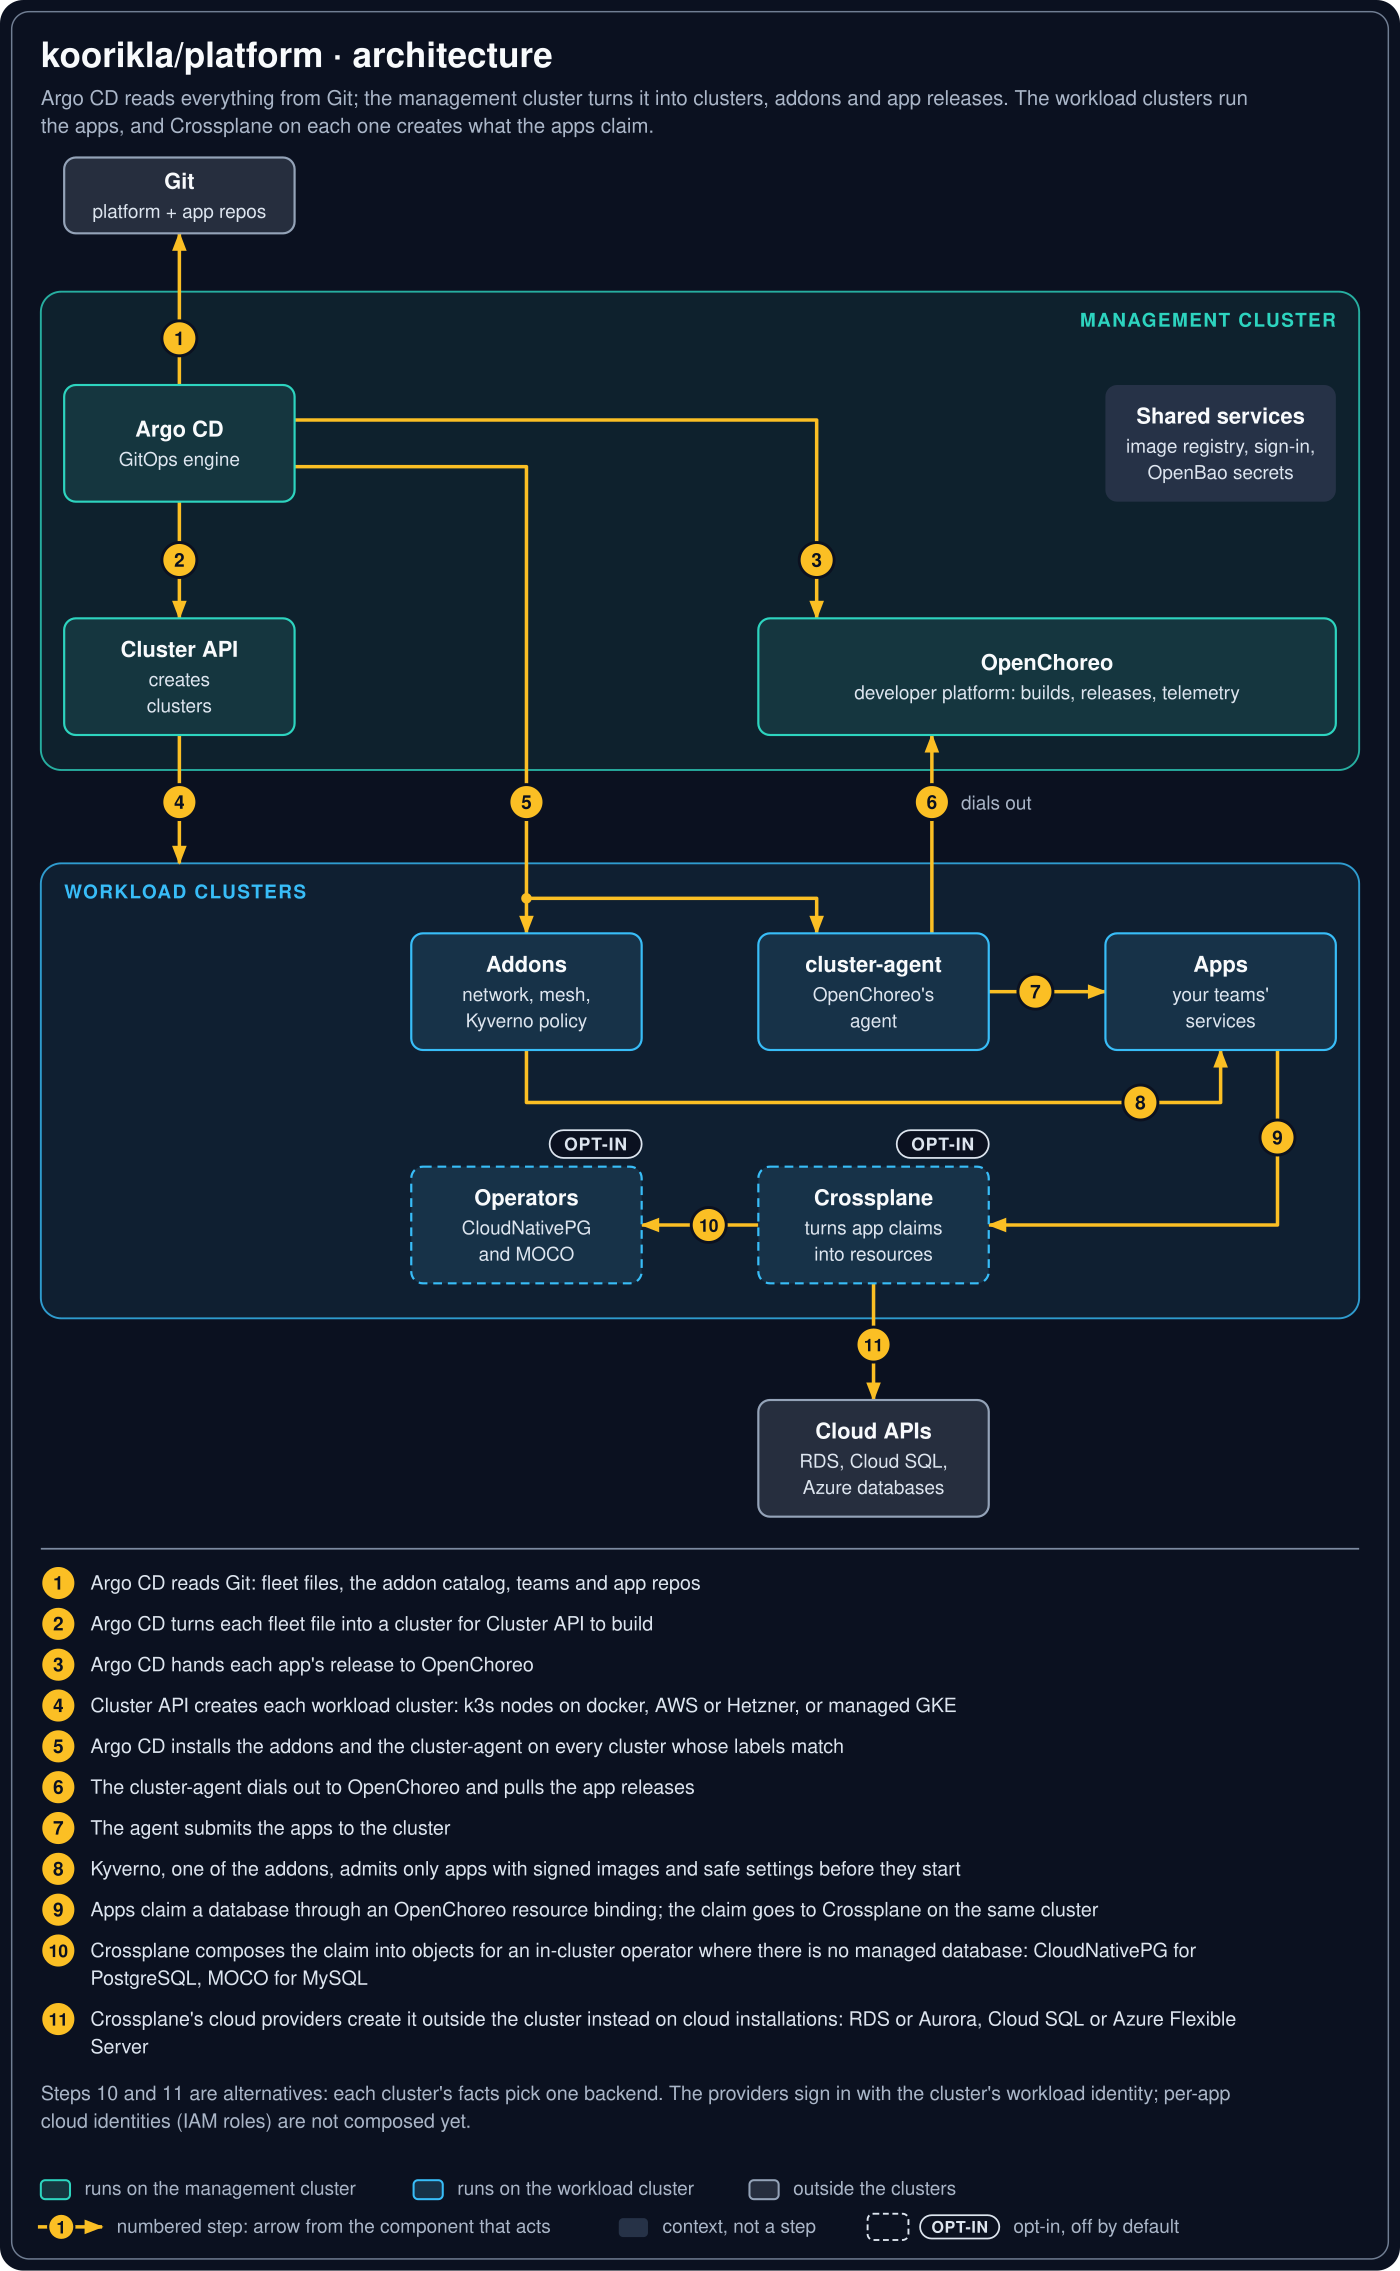
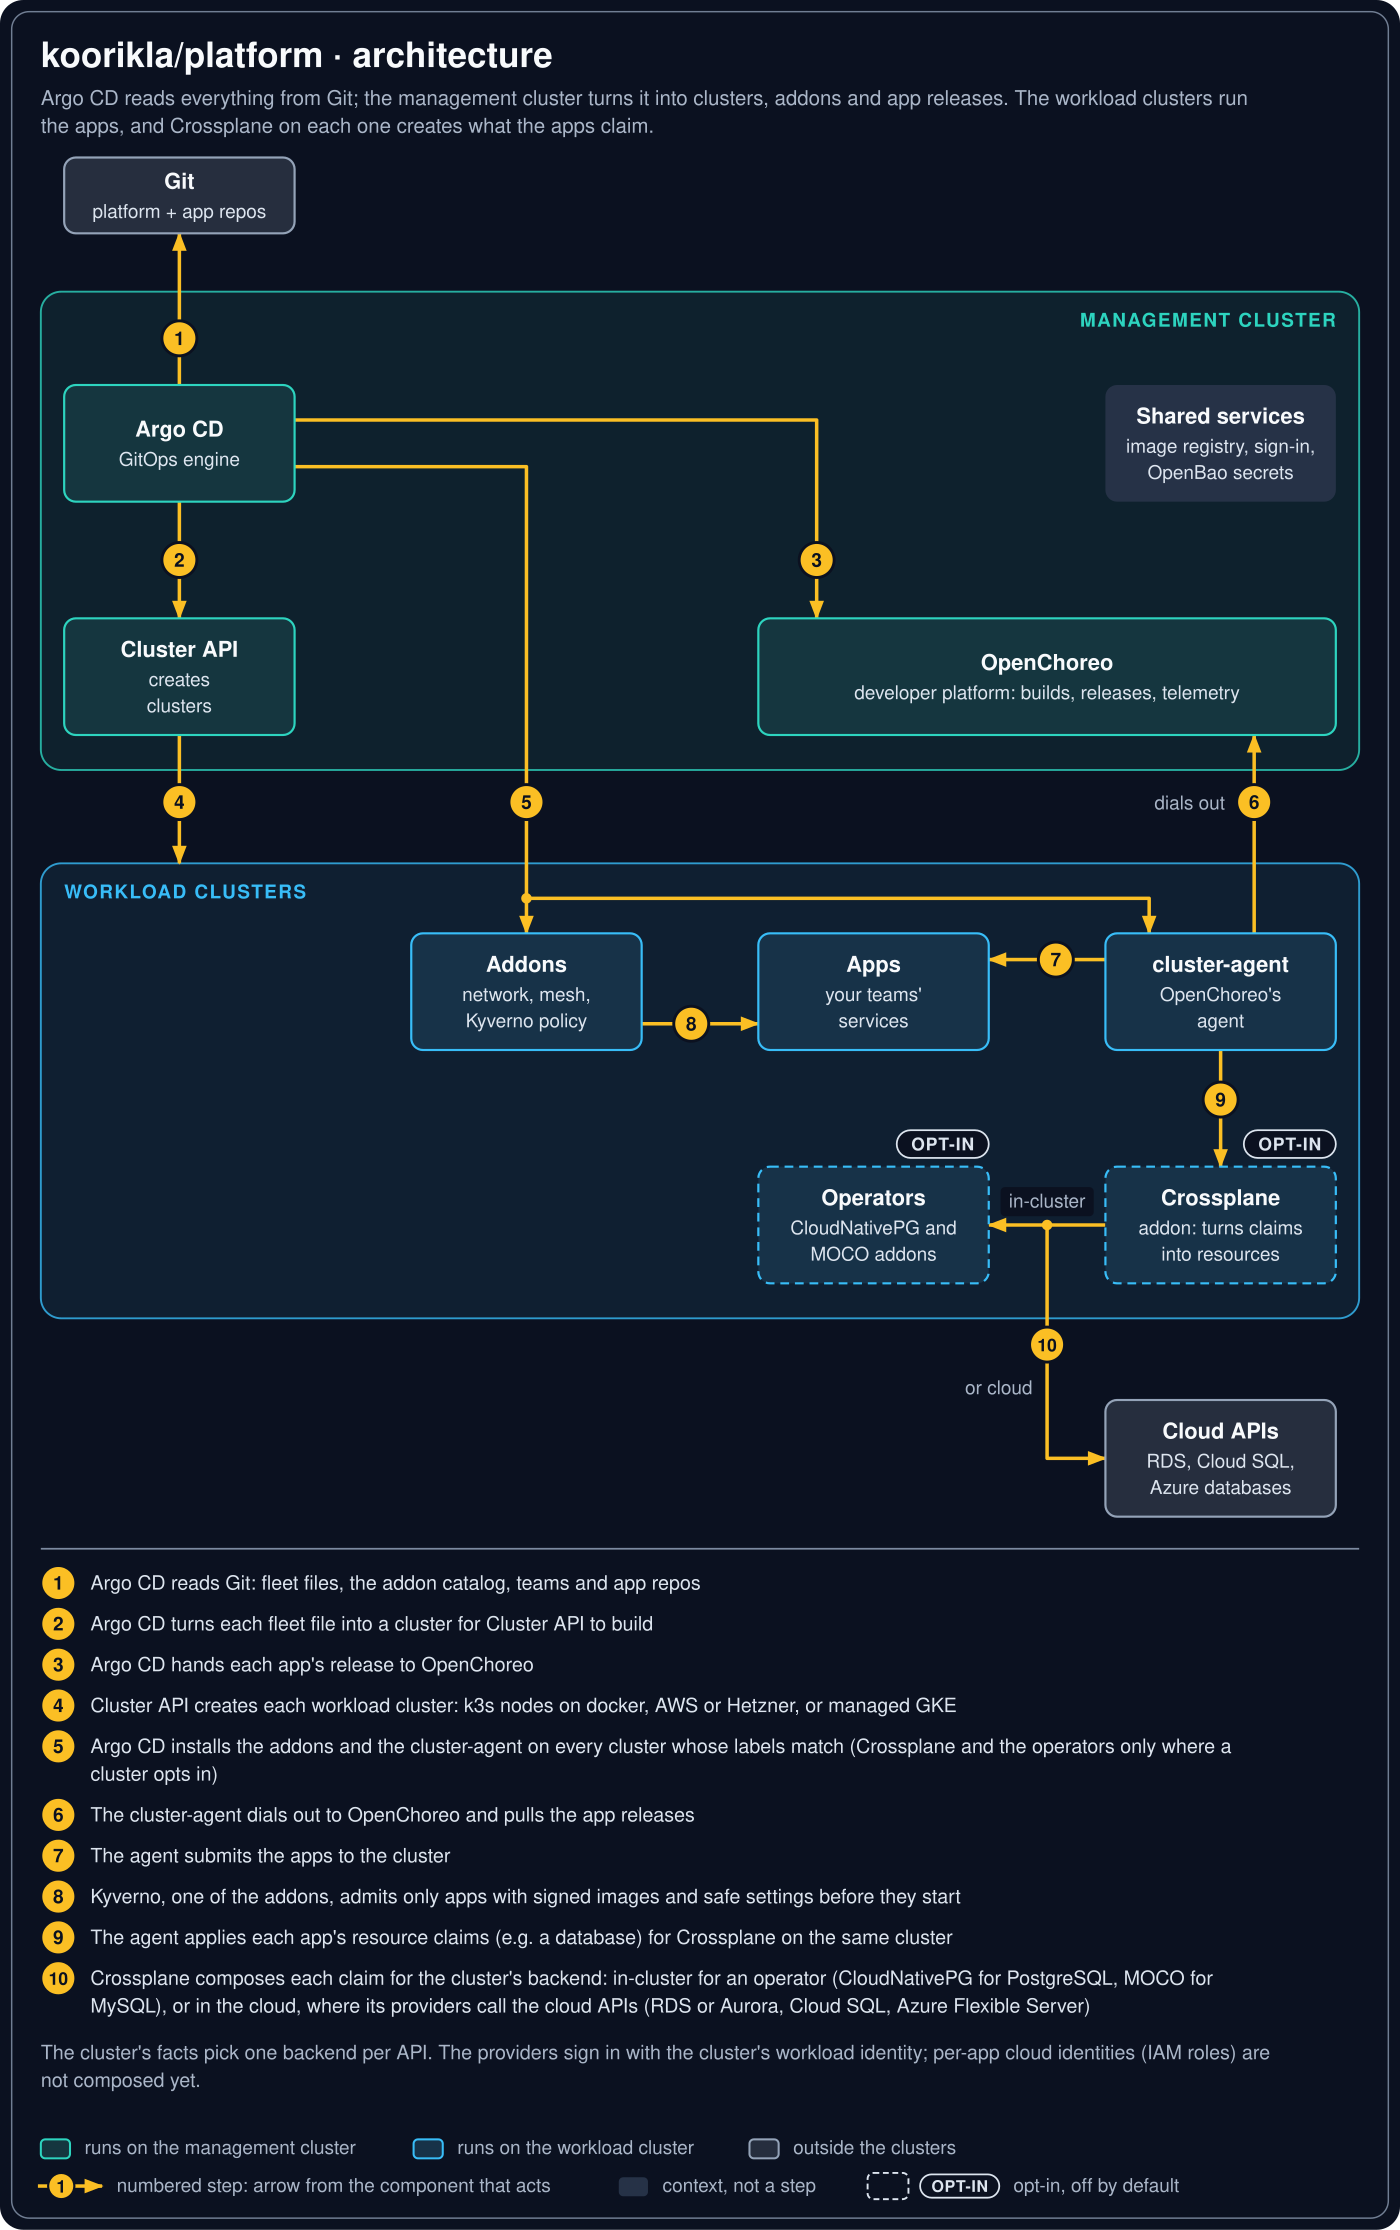
previews: architecture after review fixes

diff --git a/README.md b/README.md
@@ -1,3 +1,5 @@
 # Previews: docs/arch-crossplane
 
 architecture.svg rendered with rsvg-convert -w 1400, before (main) and after (branch docs/arch-crossplane).
+
+v2/after: after the review (agent applies claims, step 10 forks in-cluster or cloud). after/ is updated to the same image.
